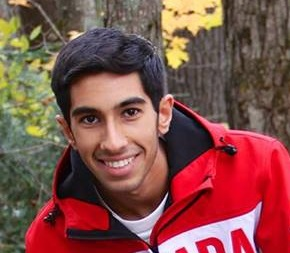
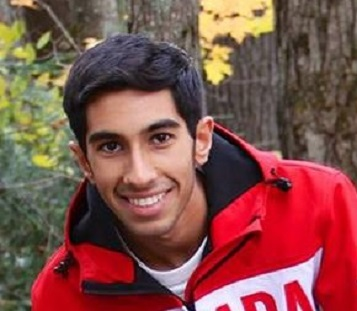
Photo REsized

diff --git a/web2/login.html b/web2/login.html
@@ -110,10 +110,9 @@ padding: 10px 0px;}
           <input class="form-control" type="password" name="password" placeholder="Password">
         </div>
       </div>
-  </form>
   <div class="col-lg-10 col-lg-offset-2">
     <br />
-    <button type="submit" value="Login"  class="btn btn-lg btn-primary" >Log In</button> 
+    <button type="submit" value="login"  class="btn btn-lg btn-primary" >Log In</button> 
 	</form>
 </div>
 </div4>
